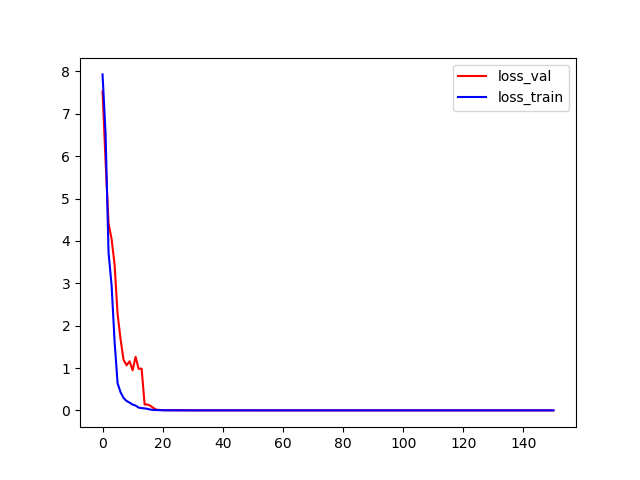
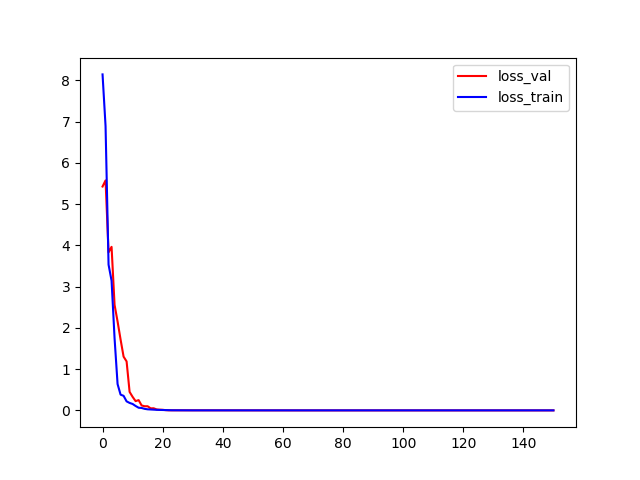
test OLS

diff --git a/HW1/OLS.py b/HW1/OLS.py
@@ -46,7 +46,7 @@ for order in [1, 2]:
     Q = Phi(x_train, x_train, phi)
 
     M = Q.shape[1]
-    rho = 1e-3
+    rho = 1e-4
     ERR = 0
     iter = 2000
     W = np.array([])
@@ -54,7 +54,7 @@ for order in [1, 2]:
     A = np.array([])
     C = np.array([])
 
-    k_max = 400
+    k_max = 300
     valLoss = np.array([])
     trainLoss = np.array([])
 
@@ -97,7 +97,7 @@ for order in [1, 2]:
             np.save("model/OLS/A{0}_{1}.npy".format(order, phi), A)
             t1 = time.time()
             t = t1 - t0
-            print("[ %d ] [ %s ] [ Iteration %d ] [ time = %.4f ] [ k = %d ] [ val_loss = %.5f ] [ train_loss = %.5f ]" % (order, phi, it, t, k, loss_val, loss_train))
+            print("[ %d ] [ %s ] [ Iteration %d ] [ time = %.4f ] [ k = %d ] [ ERR = %.5f ] [ val_loss = %.5f ] [ train_loss = %.5f ]" % (order, phi, it, t, k, ERR, loss_val, loss_train))
             t0 = time.time()    
 
         if k >= k_max or 1 - ERR < rho:
